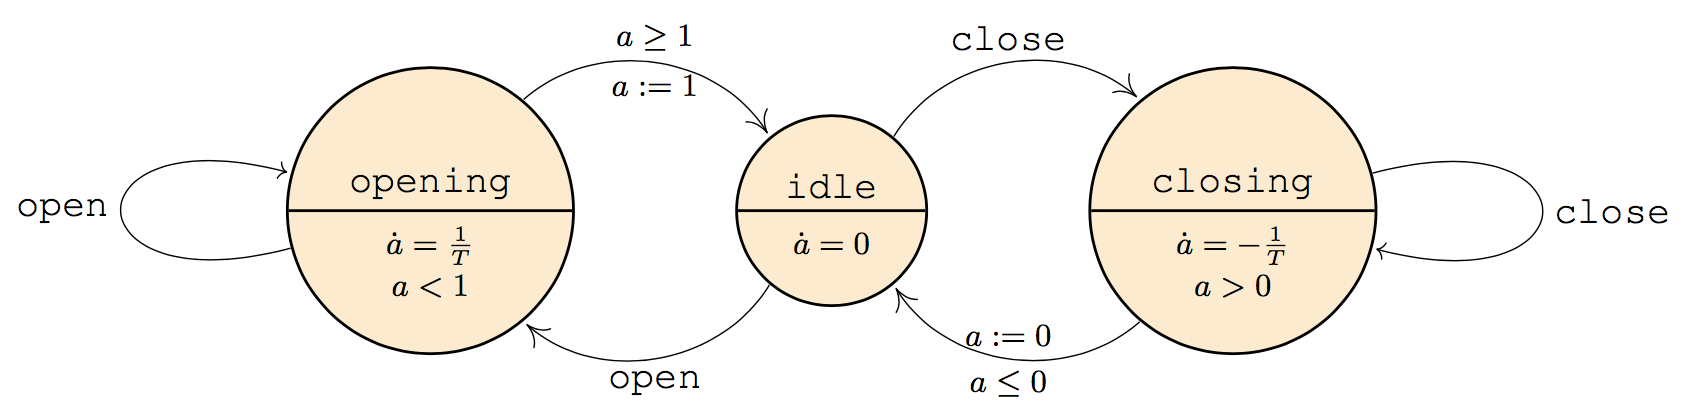
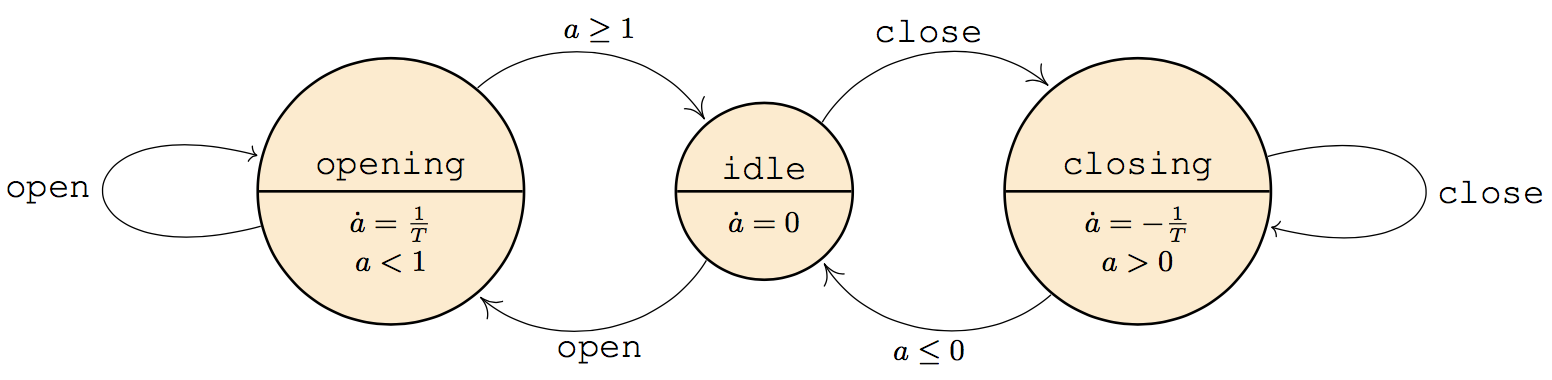
Completed the valve automaton

diff --git a/content/tutorial.md b/content/tutorial.md
@@ -20,7 +20,7 @@ This tutorial has the purpose of providing detailed information for *users* of t
 
 Ariadne currently uses a programmatic C++ approach to describe a model and analyze it. The full code presented in the following is available [here](https://bitbucket.org/ariadne-cps/release-1.0/src/HEAD/tutorial/) as a simple self contained example with extensive comments. After following this tutorial, we encourage to play with the example in order to better understand the behavior of the modeled system.
 
-## The system
+# The system
 
 ![watertank](/img/watertank.png "The watertank system")
 
@@ -30,7 +30,7 @@ The system described for this tutorial is a *watertank* system. This example fro
 
 For our system model, we identify three components: the [tank](#tank-model), the [valve](#valve-model) and the [controller](#controller-model). In order to provide a model of the sensor, instead, we would need to be able to express the relation $x_s(t) = x(t) + \delta$. This amounts to treating $\delta$ as a noise source. However, Ariadne currently does not support noise modeling in the stable release, hence we will provide an alternative system model that achieves a similar result. In addition, algebraic relations are not supported in the automata model of the stable release (while they are available in the development version).
 
-### Tank model
+## Tank model
 
 The model of the tank is simple, since it involves only one location, hereby called *flow*, with no transitions. The dynamics of the water level $x$ is the result of the effect of the output flow $\Phi_o = -\alpha\, x $ and the input flow $\Phi_i = \beta\, a$.
 
@@ -40,37 +40,43 @@ Here we choose a fixed value $\alpha = 0.02$, which is a function of hydrodynami
 
 Please note that a more realistic expression for the output flow would require $\Phi_o \propto \sqrt{x}$. However, this choice would have inherent numerical issues around $x = 0$ in the presence of over-approximations, in particular when discretizing the reachable set onto a grid. In order to allow some tweaking of the model parameters in Ariadne without incurring into numerical issues, we preferred to settle for a simplified expression for the tutorial.
 
-### Valve model
+## Valve model
+
+The model of the valve assumes that the valve opens or closes in a finite time $T = 4\, s$, with a linear opening or closing. Consequently we define two locations *opening* and *closing* in which the dynamics for the aperture $a$ is increasing or decreasing, respectively, with a rate equal to $\frac{1}{T}$. A third location *idle* instead models the valve being fully opened or fully closed, i.e., when $a$ is not allowed to vary.
 
 ![valve-model](/img/valvemodel.png "The valve model")
 
-### Controller model
+Transitions between locations in this automaton are either *internal* or *external*. An internal transition is fired from *opening* to *idle* as soon as $a \geq 1$, since $a$ is not allowed to increase further. Similarly, an internal transition is fired from *closing* to *idle* as soon as $a \leq 0$, since $a$ is not allowed to decrease further. External transitions have associated *event labels*, such as *open* and *close*, which *synchronize* with other automata with the same labels. In this case, since no transition guard is defined, we say that *open* and *close* are *input transitions* for the valve automaton: such transitions will be taken when a corresponding output event is fired by another automaton. Please note that an additional input transition is provided, in order to allow reaction to the *open* or *close* events when already in the desired location.
+
+Invariants are set as complements of the guards, in order to model the fact that the transitions are *urgent*, i.e., if the trajectory reaches a point that satisfies a guard, then it is required to take the transition immediately.
+
+## Controller model
 
 ![controller-model](/img/controllermodel.png "The controller model")
 
-## System model construction
+# System model construction
 
-### Tank
+## Tank
 
-### Valve
+## Valve
 
-### Controller
+## Controller
 
-### Composition
+## Composition
 
-## System model analysis
+# System model analysis
 
-### Evolution
+## Evolution
 
-#### Finite time evolution
+### Finite time evolution
 
-#### Infinite time outer evolution
+### Infinite time outer evolution
 
-#### Infinite time lower evolution
+### Infinite time lower evolution
 
-### Verification
+## Verification
 
-#### Safety verification
+### Safety verification
 
-#### Parametric safety verification
+### Parametric safety verification
 
